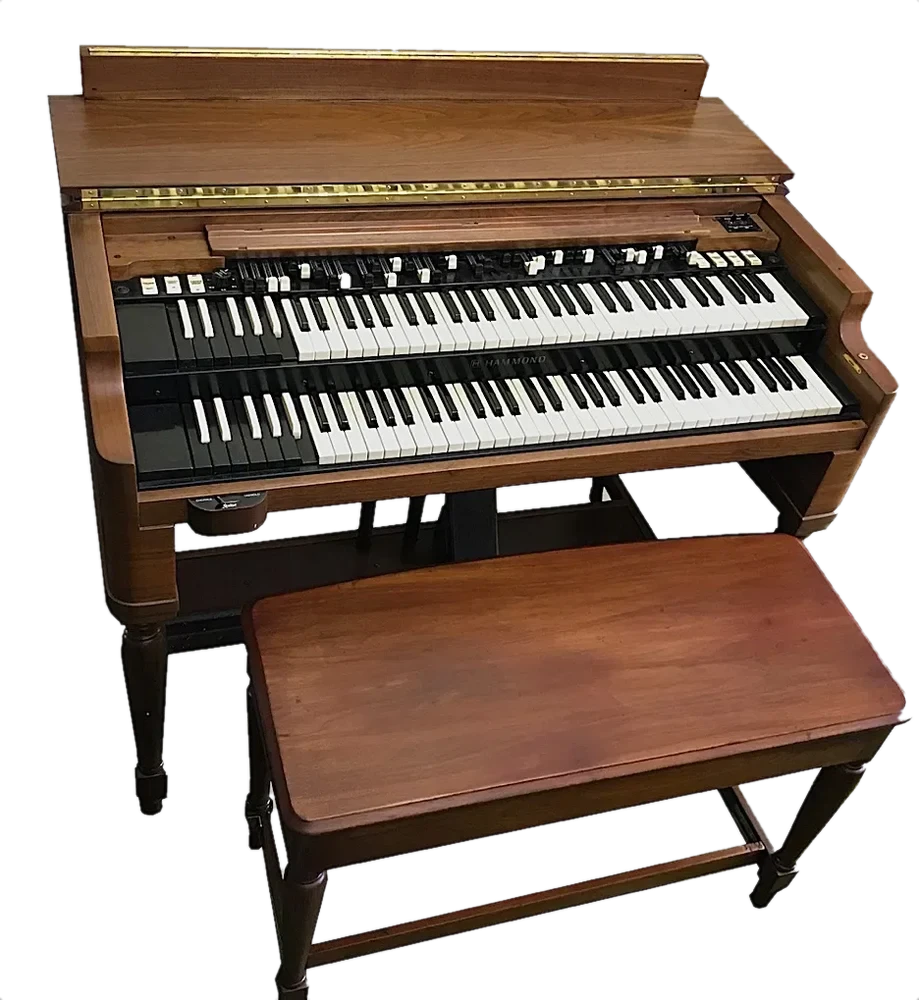
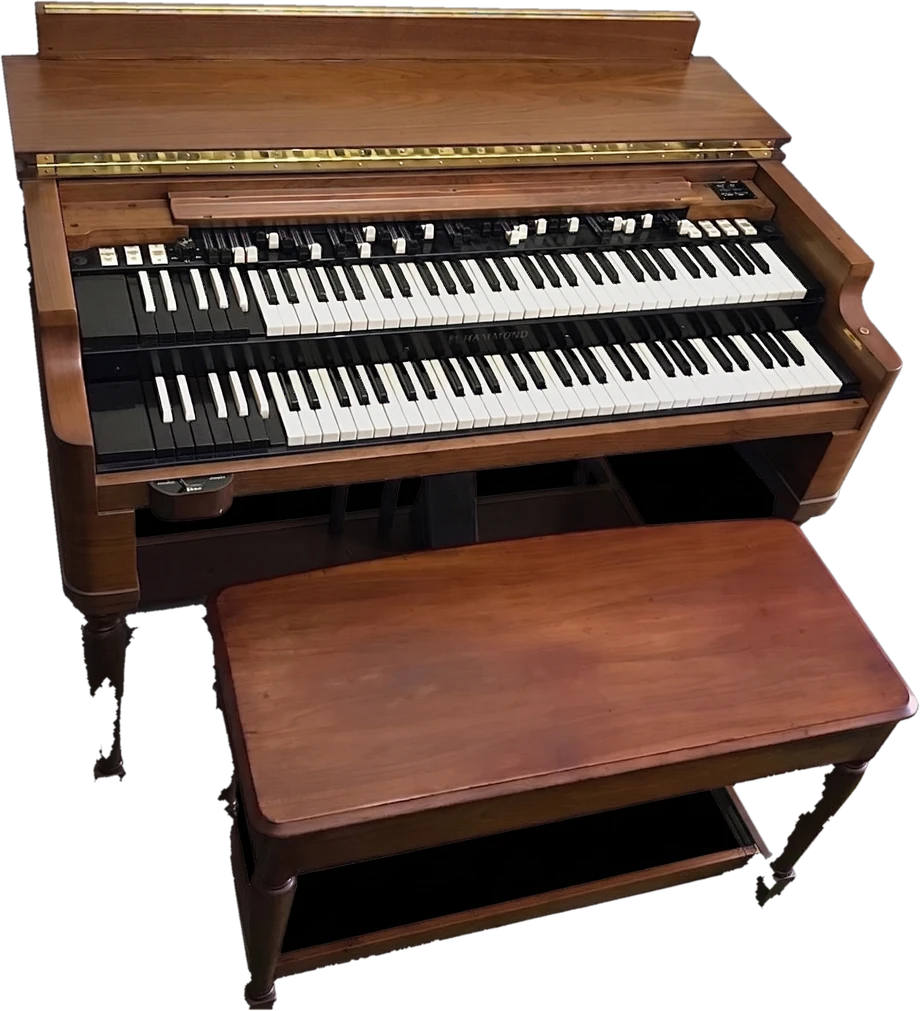
Home page: new Hammond photo in the hero, smaller on screen
- web/img/organ.webp: the new three-quarter B3 photo, background cut to
  transparent (threshold on the black backdrop, largest component, holes
  filled); 920 px wide.
- Hero size: 33% of the width (max 460 px) on desktop, 66% on phones,
  placed below the text on phones so it does not cover the buttons.

Claude-Session: https://claude.ai/code/session_01THRMZxJPVE8PQUSr8MNsNk

diff --git a/web/site_landing.html b/web/site_landing.html
@@ -509,9 +509,9 @@ function renderSite() {
     fm.style.width = fmW + "px"; fm.style.left = fmX + "px"; fm.style.top = fmY + "px";
     smk.style.width = smW + "px"; smk.style.left = smX + "px"; smk.style.top = smY + "px";
     /* where the organ starts: a picture at its own size, not filling the screen (the film makes it big) */
-    mmW0 = mob ? W * 0.82 : Math.min(W * 0.44, 620);
+    mmW0 = mob ? W * 0.66 : Math.min(W * 0.33, 460);
     mmX0 = mob ? (W - mmW0) / 2 : W - mmW0 - Math.max(24, W * 0.03);
-    mmY0 = mob ? Math.max(H * 0.08, (H * 0.5 - mmW0 * MR / 2)) : (H - mmW0 * MR) / 2;
+    mmY0 = mob ? Math.max(H * 0.56, (H * 0.5 - mmW0 * MR / 2)) : (H - mmW0 * MR) / 2;
     p = -1; draw(prog);
   }
   /* the organ picture from where it starts to the screen of a figure (x, y, w its box; L the screen in it; sc its scale) */
